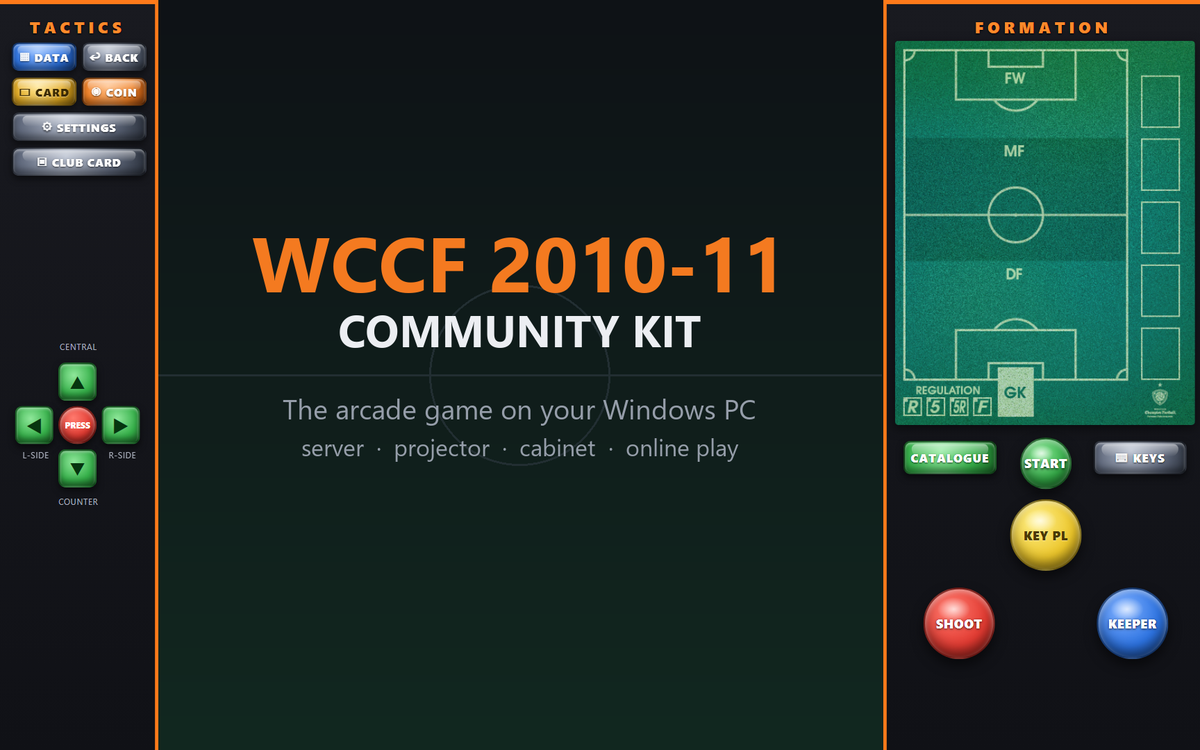
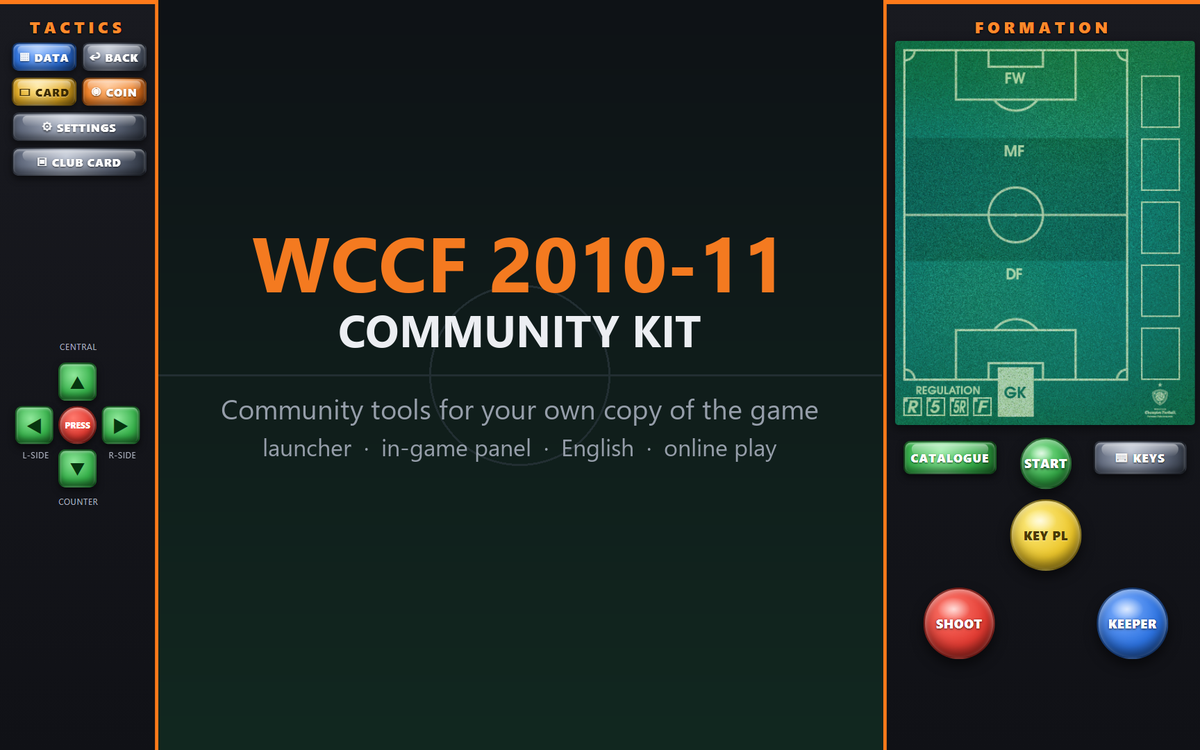
Wording: tools for your own copy of the game; no download names
The README named a specific download of the game (its file names and size), and
the GitHub page and SETUP's messages spoke of "the community's Rev D download"
and "the arcade game on your PC" - wording that reads as handing out the game.
The kit is community-made tools (a launcher, stand-ins for the cabinet's
hardware, an in-game panel) for your own copy, and holds none of Sega's files:
the README, the GitHub page and its banner, SETUP's prompts and errors, cards.py
and a few comments now say so. Behaviour unchanged (the game folder is found by
its three programs, whatever its name; the panel's projector check falls back to
WCCF_GAME, which PLAY always sets).

Changed region(s): [[0.185, 0.5213, 0.6783, 0.6133]]

diff --git a/scripts/setup.py b/scripts/setup.py
@@ -1,10 +1,10 @@
 # -*- coding: utf-8 -*-
-r"""setup.py - make your copy of WCCF 2010-11 (Rev D: the community's "sbwg" download) run on this PC with the kit.
+r"""setup.py - make your own copy of WCCF 2010-11 (Rev D) run on this PC with the kit.
 Run it once (SETUP.exe); running it again checks everything and repairs what is missing.
 
-    python setup.py [GAME]     GAME = the sbwg download's "extracted" folder (or the folder above it); asked for if
-                               not given, then remembered in data\settings.json
-    python setup.py undo       put the game folder back the way the download had it
+    python setup.py [GAME]     GAME = the game folder, the one that holds client_Release.exe (or the folder above
+                               it); asked for if not given, then remembered in data\settings.json
+    python setup.py undo       put the game folder back the way it was before setup
 
 What it changes, and nothing else on the PC:
   in extracted\   + winmm.dll (the kit's hook) and winmm_orig.dll (a copy of this PC's own Windows winmm.dll)
@@ -187,11 +187,11 @@ def check_game(game):
     if sega_client(game) != os.path.join(game, "client_Release.exe"):
         ok("English is on (ENGLISH.exe): Sega's client_Release.exe is checked in data\\english_backup")
     if h == PATCHED_CLIENT:
-        raise Failed("extracted\\client_Release.exe is already PATCHED - setup needs Sega's unchanged exe there "
-                     "(only seat1\\ gets the patched copy). Unzip client_Release.exe from the download again.")
+        raise Failed("the game folder's client_Release.exe is already PATCHED - setup needs the unchanged exe there "
+                     "(only seat1\\ gets the patched copy). Put your own unchanged client_Release.exe back first.")
     if h != SEGA_CLIENT:
-        raise Failed("extracted\\client_Release.exe is not Rev D (SHA-256 %s...) - this kit is for the community's "
-                     "Rev D download only" % h[:16])
+        raise Failed("the game folder's client_Release.exe is not Rev D (SHA-256 %s...) - this kit is for Rev D only"
+                     % h[:16])
     ok("client_Release.exe is Sega's Rev D")
     for n, want in SEGA_OTHERS.items():
         if K.sha256(os.path.join(game, n)) != want:
@@ -357,7 +357,7 @@ def undo(game):
     s = K.load_settings()
     s.pop("game", None)
     K.save_settings(s)
-    print("Undone. The game folder is as the download had it, apart from the files the game itself writes when it "
+    print("Undone. The game folder is as it was before setup, apart from the files the game itself writes when it "
           "runs (busram*.bin, eeprom*.bin). Your club card stays in data\\save.")
 
 
@@ -375,7 +375,8 @@ def main(argv):
         print("no WCCF 2010-11 game files in %s (client_Release.exe, control_Release.exe, match_Release.exe)" % rest[0])
         return 2
     if not game and mode == "setup":
-        print("Where is the game? Drag the sbwg download's \"extracted\" folder into this window, then press Enter:")
+        print("Where is the game? Drag the game folder (the one with client_Release.exe) into this window, then press "
+              "Enter:")
         try:
             game = K.find_game(input("> "))
         except EOFError:

diff --git a/scripts/cards.py b/scripts/cards.py
@@ -2,7 +2,7 @@
 r"""cards.py - make the CATALOGUE's files from your own copy of WCCF 2010-11 (Rev D).  Only READS the game's files.
 
     python cards.py GAME OUT
-      GAME  the folder with client_Release.exe in it (the "extracted" folder of the sbwg download)
+      GAME  the game folder, the one with client_Release.exe in it
       OUT   where catalogue.tsv and cards\ are written (the overlay's folder)
 
 Writes  catalogue.tsv           one line per card: number, season, rarity, names, line, club, the six stats, total ...
@@ -277,7 +277,7 @@ def main(argv):
     game, out = os.path.abspath(argv[0]), os.path.abspath(argv[1])
     files = game_files(game)
     if not files:
-        print("GAME must be the folder that holds client_Release.exe (the sbwg download's \"extracted\" folder)")
+        print("GAME must be the game folder, the one that holds client_Release.exe")
         return 2
     cards_dir = os.path.join(out, "cards")
     if os.path.islink(cards_dir) or (hasattr(os.path, "isjunction") and os.path.isjunction(cards_dir)):

diff --git a/scripts/english.py b/scripts/english.py
@@ -46,7 +46,7 @@ TEAMS = os.path.join("prog_data", "cpu_team")
 PROJECTOR = "client_Release.exe"
 SEAT_EXE = os.path.join("seat1", "client_Release.exe")     # seat 1's own copy, beside extracted\ (see where())
 SERVER = "control_Release.exe"                             # the server; SETUP never changes it (setup.py SEGA_OTHERS)
[5 lines of base64/hex data omitted]

diff --git a/source/launcher/src/bin/setup.rs b/source/launcher/src/bin/setup.rs
@@ -1,6 +1,6 @@
 //! SETUP.exe - sets up your copy of the game (once; again to check and repair): scripts\setup.py with this exe's
-//! arguments.  Drag the game's "extracted" folder onto it, or start it and answer the question; "undo" puts the game
-//! folder back the way the download had it.
+//! arguments.  Drag the game folder (the one with client_Release.exe) onto it, or start it and answer the question;
+//! "undo" puts the game folder back the way it was before setup.
 
 use std::ffi::OsString;
 use std::process::ExitCode;

diff --git a/scripts/kit_common.py b/scripts/kit_common.py
@@ -44,7 +44,7 @@ def save_settings(s):
 
 
 def find_game(path):
-    """the sbwg "extracted" folder from a path to it or to the folder above it, else None"""
+    """the game folder (the one with the three game programs) from a path to it or to the folder above it, else None"""
     if not path:
         return None
     path = os.path.abspath(path.strip().strip('"'))

diff --git a/.github/README.md b/.github/README.md
@@ -9,15 +9,15 @@
   <img alt="Python inside the kit" src="https://img.shields.io/badge/Python-inside%20the%20kit-3776ab">
 </p>
 
-**World Club Champion Football: Intercontinental Clubs 2010-11** on a Windows PC: Sega's arcade server, the projector (the shared big screen) and a player cabinet on one PC, or many PCs playing on one server. Around the game's picture sits a panel with the cabinet's buttons, your cards and your club.
+Community-developed launcher, hardware compatibility tools and an in-game overlay for **WCCF 2010-11 (Rev D)**. With your own copy of the game, it runs the game's server, the projector (the shared big screen) and a player cabinet on one Windows PC, or several PCs on one server, and puts a panel around the game's picture with the cabinet's buttons, your cards and your club.
 
-> **The kit holds none of Sega's files.** Everything that comes from the game is made by SETUP from your own copy.
+> **The game is not included, and the kit holds none of Sega's files.** It works with your own copy: what it needs from the game, SETUP makes from that copy, on your PC.
 
 ## What you get
 
 | | |
 |---|---|
-| **The whole arcade on one PC** | PLAY starts the server, the projector and seat 1 together; only two windows open |
+| **One launcher** | PLAY starts your game's server, projector and seat 1 together; only two windows open |
 | **Formation board** | your cards on the table: drag to move, drop on another card to swap, right-click to take one off |
 | **Catalogue** | all 3,909 player cards: search, position and rarity filters, sorting, a slider per stat |
 | **Keys** | choose your own keys, or a game controller's buttons |
@@ -27,9 +27,9 @@
 
 ## Quick start
 
-1. **You need** Windows 10 or 11 (64-bit), the community's Rev D download (its "sbwg" zip, unzipped to a folder called `extracted`) and DirectX 9 (Microsoft's June 2010 runtime; SETUP tells you if it is missing).
+1. **You need** Windows 10 or 11 (64-bit), your own copy of the game (Rev D) as a folder of files, and DirectX 9 (Microsoft's June 2010 runtime; SETUP tells you if it is missing).
 2. **Unzip the kit** into a folder of its own.
-3. **Drag the `extracted` folder onto `SETUP.exe`.** It checks your copy, sets it up and makes the card catalogue (about a minute).
+3. **Drag your game folder onto `SETUP.exe`** (the one that holds `client_Release.exe`). It checks your copy is Rev D, sets it up and makes the card catalogue (about a minute).
 4. **Double-click `PLAY.exe`.** Click the cabinet's window and play with the keyboard. To quit, close the game's window.
 5. Optional: **`ENGLISH.exe`** puts the game into English.
 

diff --git a/CHANGELOG.md b/CHANGELOG.md
@@ -13,6 +13,8 @@ on-screen panel - and online play on a shared server. Newest first; each date is
   (`MSGPARSE guard stepped aside: ...`, with what it found) - please share that line.
 
 ### Changed
+- The README, the GitHub page and SETUP's messages speak of your own copy of the game: the kit does not include the
+  game, and no longer names any download of it.
 - `PLAY`, `SETUP` and `ENGLISH` are programs (`.exe`, written in Rust: `source\launcher`) instead of `.bat` files,
   used the same way. Updating from an earlier kit: delete the old `.bat` files.
 - Quitting is closing the game's window. `STOP` is gone: closing seat 1's (or the projector's) window ends the game
